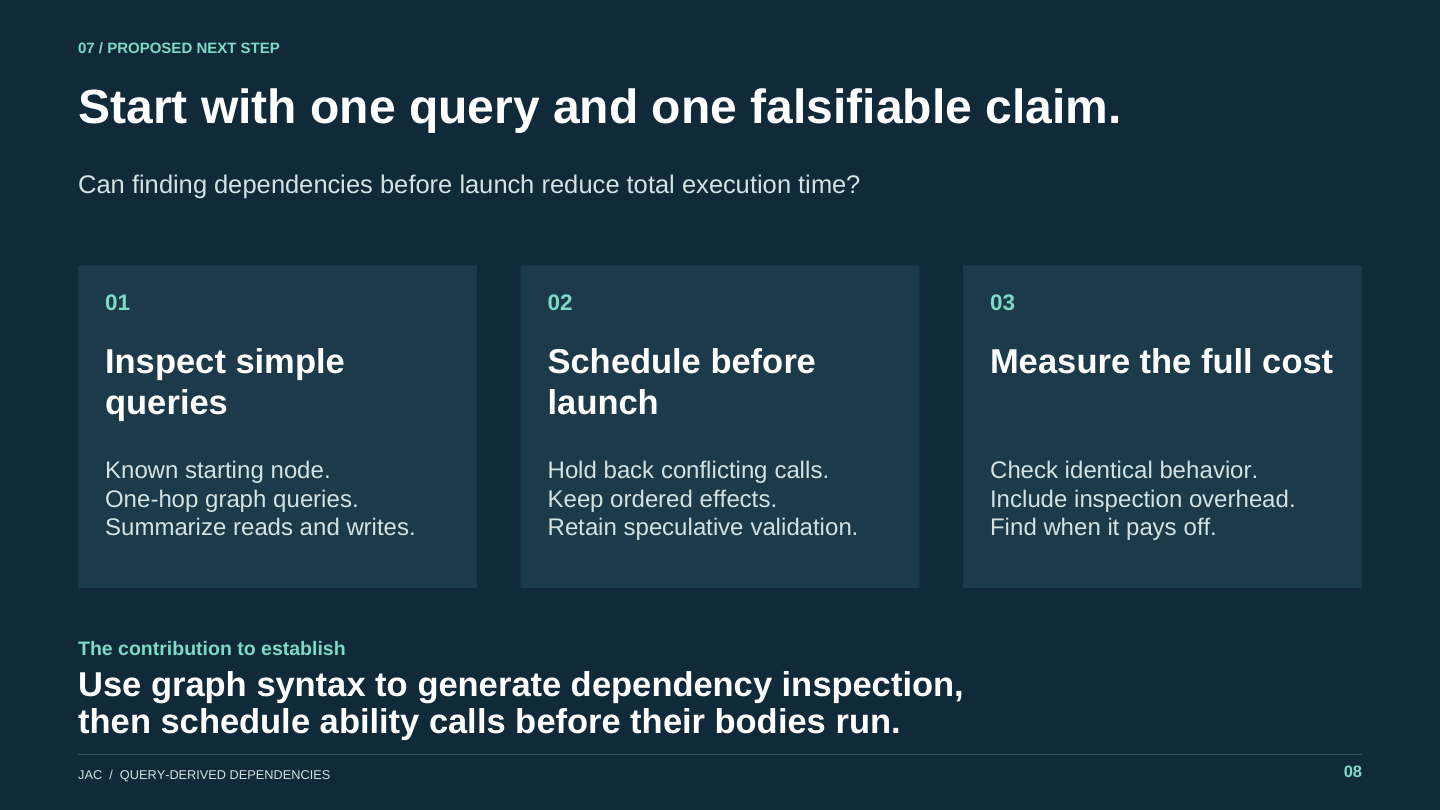
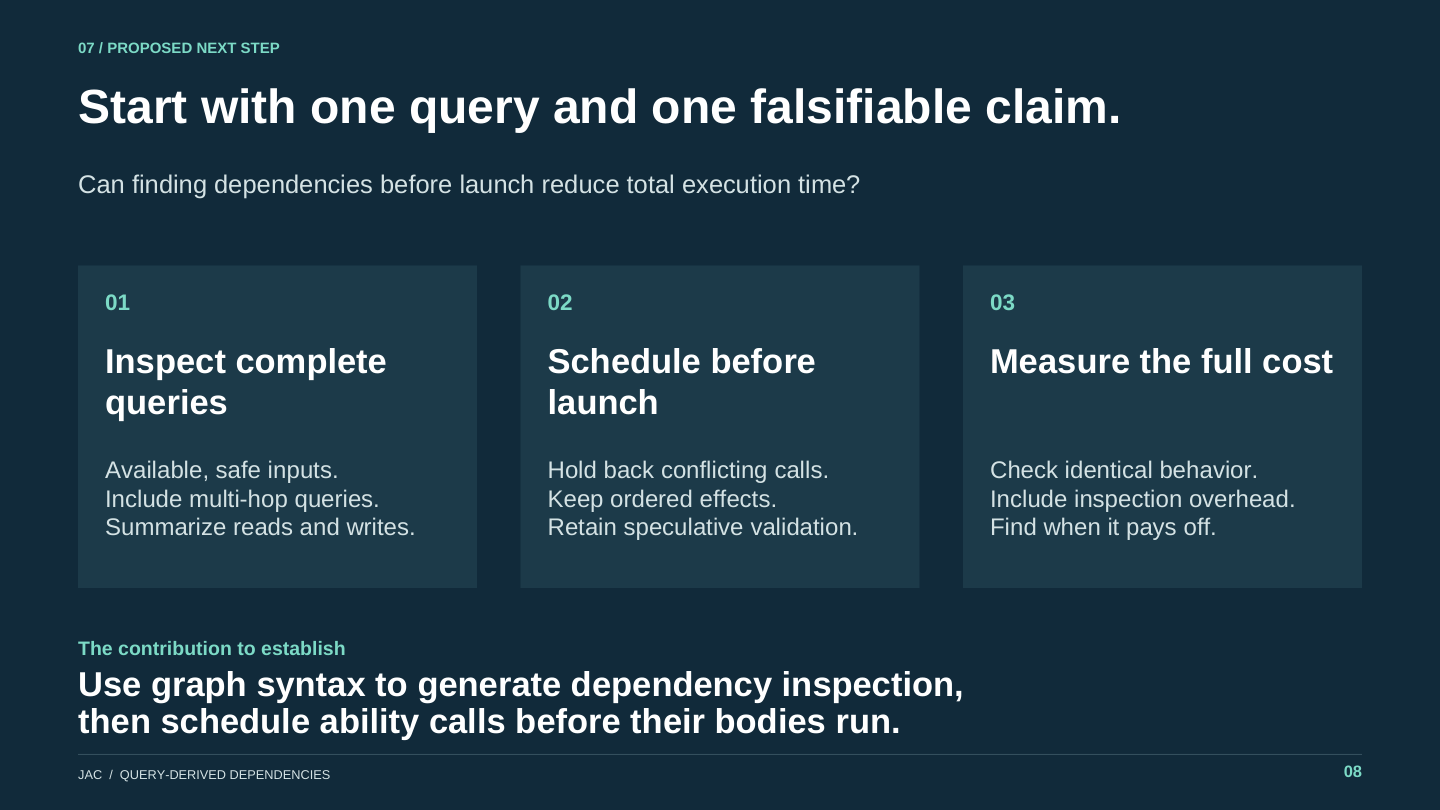
pdfs changed

Changed region(s): [[0.0625, 0.5556, 0.25, 0.6481], [0.1562, 0.4321, 0.2812, 0.463]]

diff --git a/artifacts/jac-dependency-advisor/build_slides.py b/artifacts/jac-dependency-advisor/build_slides.py
@@ -278,7 +278,7 @@ s.text('Before B starts: query again and update its dependencies to include n4.'
        70, 406, 820, 21, 'amber', True)
 s.text('Track changes to the searched edges and filter inputs, even when the result is empty.',
        52, 465, 856, 17, 'muted')
-s.notes = '''Pre-execution inspection does not make a query result permanently valid. Suppose B's inspection finds no outgoing Edge links, but an earlier ability A adds a link to n4. B must use the updated graph in the serial program. Tracking only the originally returned nodes would miss this change because the old result was empty. Record the graph data examined by the lookup as well: for a simple one-hop query, a conservative version of the origin's adjacency can detect insertions, deletions, and ordering changes. Also cover node and edge liveness, type matching, and all predicate inputs, including fields of rejected candidates. When earlier work invalidates an inspection, re-run it and update scheduling dependencies before launching the body. The same rule applies if a possible writer's target set changes. Re-inspection must happen against a coherent view, and its dependencies must be registered atomically with validation or protected by an equivalent protocol; a bare version check followed by an unprotected launch is insufficient. Earlier calls whose accesses cannot be bounded retain conservative barriers or speculative validation. Keep the existing instrumentation initially, so inspection improves scheduling without being the sole correctness mechanism. The current prototype serializes graph mutation through fallback. A first performance experiment can keep topology fixed and exercise mutation/invalidation correctness separately.'''
+s.notes = '''Pre-execution inspection does not make a query result permanently valid. Suppose B's inspection finds no outgoing Edge links, but an earlier ability A adds a link to n4. B must use the updated graph in the serial program. Tracking only the originally returned nodes would miss this change because the old result was empty. Record the graph data examined at every hop, including intermediate nodes' searched adjacency and empty lookups. Conservative adjacency versions can detect insertions, deletions, and ordering changes. Also cover node and edge liveness, type matching, and all predicate inputs, including fields of rejected candidates. Intermediate query results can feed later hops inside the inspection function; the ability body need not start. When earlier work invalidates an inspection, re-run it and update scheduling dependencies before launching the body. The same rule applies if a possible writer's target set changes. Re-inspection must happen against a coherent view, and its dependencies must be registered atomically with validation or protected by an equivalent protocol; a bare version check followed by an unprotected launch is insufficient. Earlier calls whose accesses cannot be bounded retain conservative barriers or speculative validation. Keep the existing instrumentation initially, so inspection improves scheduling without being the sole correctness mechanism. The current prototype serializes graph mutation through fallback. A first performance experiment can keep topology fixed and exercise mutation/invalidation correctness separately.'''
 slides.append(s)
 
 # 6. Same values as slide 2; B remains queued until the known dependency clears.
@@ -326,7 +326,7 @@ slides.append(s)
 s = Slide('Start with one query and one falsifiable claim.', '07 / Proposed next step', dark=True)
 s.header('Can finding dependencies before launch reduce total execution time?')
 items = [
-    (52, '01', 'Inspect simple queries', 'Known starting node.\nOne-hop graph queries.\nSummarize reads and writes.'),
+    (52, '01', 'Inspect complete queries', 'Available, safe inputs.\nInclude multi-hop queries.\nSummarize reads and writes.'),
     (347, '02', 'Schedule before launch', 'Hold back conflicting calls.\nKeep ordered effects.\nRetain speculative validation.'),
     (642, '03', 'Measure the full cost', 'Check identical behavior.\nInclude inspection overhead.\nFind when it pays off.'),
 ]
@@ -338,7 +338,7 @@ for x, no, heading, body in items:
 s.text('The contribution to establish', 52, 427, 856, 13, 'mint', True)
 s.text('Use graph syntax to generate dependency inspection,\nthen schedule ability calls before their bodies run.',
        52, 447, 856, 23, 'white', True, leading=1.08, max_h=57)
-s.notes = '''The first experiment should be deliberately narrow: queued native entry-ability calls with known starting nodes, simple one-hop typed queries, safe query inputs, and conservative read/write summaries. Generate inspectors and schedule calls before their bodies start. Preserve original-order effects and existing speculative validation. Unknown calls, accesses whose targets depend on unavailable body results, and unsupported effects keep conservative or existing fallback handling; the experiment does not require splitting general ability bodies into computation and effect phases. Check shared neighbors, aliases, read-before-write order, multiple writers, empty queries, and invalidation after graph changes. Future calls produced by visit are inspected once they are known. For performance, begin with fixed topology and vary overlap and computation cost, accounting for every inspection. The candidate research contribution is automatically generating useful dependency inspection from Jac graph syntax and integrating it with ordered walker semantics. Inspector-executor scheduling and semantic concurrency control already exist. The contribution must be established by extraction coverage, soundness, and a measured advantage over appropriate baselines, not by the scheduling pattern alone.'''
+s.notes = '''Support complete eligible graph queries, including multi-hop chains. Eligibility depends on whether query inputs can be obtained safely before the ability body starts, not on hop count. A later hop can consume an earlier hop's result entirely within the inspector. The native compiler already lowers query chains through refs and refs_many; inspector generation can reuse this query structure, while adding conservative read/write summaries and tracking graph data examined at every hop. Generate inspectors for queued native entry-ability calls and schedule before their bodies start. Preserve original-order effects and existing speculative validation. Unknown calls, accesses whose targets depend on unavailable body results, and unsupported effects keep conservative or existing fallback handling; the experiment does not require splitting general ability bodies into computation and effect phases. Check shared neighbors, aliases, read-before-write order, multiple writers, empty intermediate results, intermediate-edge changes, and predicate invalidation. Future calls produced by visit are inspected once they are known. For performance, vary hop count, fan-out, overlap, and computation cost, accounting for every inspection. The candidate research contribution is automatically generating useful dependency inspection from Jac graph syntax and integrating it with ordered walker semantics. Inspector-executor scheduling and semantic concurrency control already exist. The contribution must be established by extraction coverage, soundness, and a measured advantage over appropriate baselines, not by the scheduling pattern alone.'''
 slides.append(s)
 
 # 9. Verified primary references; explicit epistemic status of novelty.

diff --git a/artifacts/jac-dependency-advisor/speaker_notes.md b/artifacts/jac-dependency-advisor/speaker_notes.md
@@ -24,7 +24,7 @@ These are three concrete queued invocations, not every ability definition in the
 
 ## 05. If earlier work changes the query, inspect again.
 
-Pre-execution inspection does not make a query result permanently valid. Suppose B's inspection finds no outgoing Edge links, but an earlier ability A adds a link to n4. B must use the updated graph in the serial program. Tracking only the originally returned nodes would miss this change because the old result was empty. Record the graph data examined by the lookup as well: for a simple one-hop query, a conservative version of the origin's adjacency can detect insertions, deletions, and ordering changes. Also cover node and edge liveness, type matching, and all predicate inputs, including fields of rejected candidates. When earlier work invalidates an inspection, re-run it and update scheduling dependencies before launching the body. The same rule applies if a possible writer's target set changes. Re-inspection must happen against a coherent view, and its dependencies must be registered atomically with validation or protected by an equivalent protocol; a bare version check followed by an unprotected launch is insufficient. Earlier calls whose accesses cannot be bounded retain conservative barriers or speculative validation. Keep the existing instrumentation initially, so inspection improves scheduling without being the sole correctness mechanism. The current prototype serializes graph mutation through fallback. A first performance experiment can keep topology fixed and exercise mutation/invalidation correctness separately.
+Pre-execution inspection does not make a query result permanently valid. Suppose B's inspection finds no outgoing Edge links, but an earlier ability A adds a link to n4. B must use the updated graph in the serial program. Tracking only the originally returned nodes would miss this change because the old result was empty. Record the graph data examined at every hop, including intermediate nodes' searched adjacency and empty lookups. Conservative adjacency versions can detect insertions, deletions, and ordering changes. Also cover node and edge liveness, type matching, and all predicate inputs, including fields of rejected candidates. Intermediate query results can feed later hops inside the inspection function; the ability body need not start. When earlier work invalidates an inspection, re-run it and update scheduling dependencies before launching the body. The same rule applies if a possible writer's target set changes. Re-inspection must happen against a coherent view, and its dependencies must be registered atomically with validation or protected by an equivalent protocol; a bare version check followed by an unprotected launch is insufficient. Earlier calls whose accesses cannot be bounded retain conservative barriers or speculative validation. Keep the existing instrumentation initially, so inspection improves scheduling without being the sole correctness mechanism. The current prototype serializes graph mutation through fallback. A first performance experiment can keep topology fixed and exercise mutation/invalidation correctness separately.
 
 ## 06. B waits before starting, then calculates once.
 
@@ -36,7 +36,7 @@ The hypothesis is that inexpensive pre-execution inspection can save more work t
 
 ## 08. Start with one query and one falsifiable claim.
 
-The first experiment should be deliberately narrow: queued native entry-ability calls with known starting nodes, simple one-hop typed queries, safe query inputs, and conservative read/write summaries. Generate inspectors and schedule calls before their bodies start. Preserve original-order effects and existing speculative validation. Unknown calls, accesses whose targets depend on unavailable body results, and unsupported effects keep conservative or existing fallback handling; the experiment does not require splitting general ability bodies into computation and effect phases. Check shared neighbors, aliases, read-before-write order, multiple writers, empty queries, and invalidation after graph changes. Future calls produced by visit are inspected once they are known. For performance, begin with fixed topology and vary overlap and computation cost, accounting for every inspection. The candidate research contribution is automatically generating useful dependency inspection from Jac graph syntax and integrating it with ordered walker semantics. Inspector-executor scheduling and semantic concurrency control already exist. The contribution must be established by extraction coverage, soundness, and a measured advantage over appropriate baselines, not by the scheduling pattern alone.
+Support complete eligible graph queries, including multi-hop chains. Eligibility depends on whether query inputs can be obtained safely before the ability body starts, not on hop count. A later hop can consume an earlier hop's result entirely within the inspector. The native compiler already lowers query chains through refs and refs_many; inspector generation can reuse this query structure, while adding conservative read/write summaries and tracking graph data examined at every hop. Generate inspectors for queued native entry-ability calls and schedule before their bodies start. Preserve original-order effects and existing speculative validation. Unknown calls, accesses whose targets depend on unavailable body results, and unsupported effects keep conservative or existing fallback handling; the experiment does not require splitting general ability bodies into computation and effect phases. Check shared neighbors, aliases, read-before-write order, multiple writers, empty intermediate results, intermediate-edge changes, and predicate invalidation. Future calls produced by visit are inspected once they are known. For performance, vary hop count, fan-out, overlap, and computation cost, accounting for every inspection. The candidate research contribution is automatically generating useful dependency inspection from Jac graph syntax and integrating it with ordered walker semantics. Inspector-executor scheduling and semantic concurrency control already exist. The contribution must be established by extraction coverage, soundness, and a measured advantage over appropriate baselines, not by the scheduling pattern alone.
 
 ## 09. Inspection before execution has clear precedents.
 

diff --git a/artifacts/jac-dependency-advisor/sources.md b/artifacts/jac-dependency-advisor/sources.md
@@ -33,6 +33,7 @@ The implemented baseline is opt-in native walker speculation with memory-access 
 ## Proposed mechanism
 
 1. Extract safe graph queries and conservative read/write summaries from an ability. A query result alone does not identify possible writers.
+   Include multi-hop queries: eligibility depends on safe pre-execution availability of inputs, not hop count. Intermediate query results can feed subsequent hops within the inspector. Track the searched adjacency, liveness, and predicate inputs at every hop, including empty intermediate results.
 2. For a concrete queued call, bind its known starting node, walker, and arguments. Run the separate inspection function before launching the body to find actual node identities and the graph data used by the lookup.
 3. Compare queued calls in their original serial order. Delay a later call when its possible reads or writes conflict with an earlier call. Independent calls may compute together; effects still publish in the original order.
 4. If an earlier update changes inputs used by inspection, re-inspect the affected calls and rebuild their dependencies before launch. Returning no nodes does not remove the dependency on the searched edges and filter inputs.

diff --git a/artifacts/jac-dependency-advisor/README.md b/artifacts/jac-dependency-advisor/README.md
@@ -14,6 +14,8 @@ The core argument is: the compiler can generate a small inspection function from
 
 The running examples use explicit nodes and values: A changes a score from 10 to 20; B must calculate using 20. A separate three-call example shows why A and an independent C can compute together while B waits. Query inspection happens before the ability body starts. Existing speculative validation handles accesses that have not been proven safe by inspection.
 
+The proposed scope includes multi-hop queries. A query is eligible when its inputs can be obtained safely before the body starts; hop count is not a support boundary. Inspection tracks the graph data examined at intermediate hops as well as the final access targets.
+
 The PDF has been rendered and visually inspected. The PowerPoint uses the same layout primitives, with Arial and Consolas font names for portability; use the PDF for fixed layout across computers.
 
 ## Rebuild
